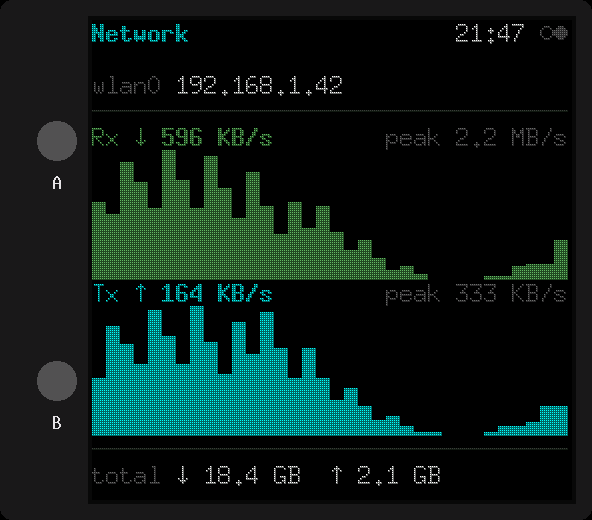
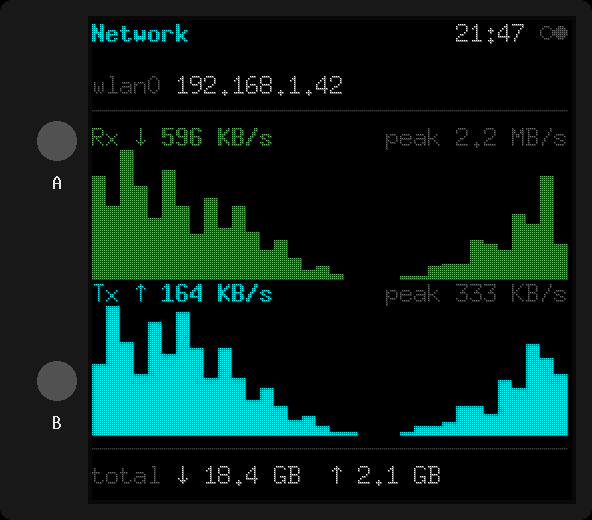
Overview: CPU history sparkline and RAM used in GB (#28)
Ideas from the Bear Byte monitor. The CPU sparkline sits under the CPU
gauge, scaled 0-100% and coloured like the gauge; the Mem row shows used
RAM in GiB after its bar.

Sparklines now draw the newest samples: ratatui's Sparkline keeps the
start of its data, so the Network graphs (40 samples, 34 columns) were
hiding the latest 6 seconds.

Claude-Session: https://claude.ai/code/session_01QArYA2tQ7xuw5EaptzcXds

diff --git a/src/ui.rs b/src/ui.rs
@@ -45,6 +45,7 @@ impl Page {
 pub struct AppState<'a> {
     pub snap: Snapshot,
     pub page: Page,
+    pub cpu_history: &'a VecDeque<u64>,
     pub rx_history: &'a VecDeque<u64>,
     pub tx_history: &'a VecDeque<u64>,
 }
@@ -61,7 +62,7 @@ const RULE: Color = Color::Rgb(60, 60, 60);
 
 /// First text row of the Overview info rows (IP, temp, uptime, load), each two
 /// rows tall. main.rs draws the icons there.
-pub const OVERVIEW_ICON_ROW: i32 = 8;
+pub const OVERVIEW_ICON_ROW: i32 = 10;
 
 /// Leading spaces on the Overview info rows, leaving room for the icons that
 /// main.rs draws over them.
@@ -107,11 +108,26 @@ fn dim(text: impl Into<String>) -> Span<'static> {
     Span::styled(text.into(), Style::default().fg(DIM))
 }
 
-fn render_gauge_row(frame: &mut Frame<'_>, area: Rect, label: &str, pct: u8, warn: u8, crit: u8) {
+/// Width of the label + percentage column on the left of each gauge row.
+const GAUGE_LABEL_W: u16 = 9;
+
+/// Gauge row with `suffix` (may be empty) shown after the bar.
+fn render_gauge_row(
+    frame: &mut Frame<'_>,
+    area: Rect,
+    label: &str,
+    pct: u8,
+    (warn, crit): (u8, u8),
+    suffix: &str,
+) {
     let color = traffic_color(pct, warn, crit);
     let cols = Layout::default()
         .direction(Direction::Horizontal)
-        .constraints([Constraint::Length(9), Constraint::Min(0)])
+        .constraints([
+            Constraint::Length(GAUGE_LABEL_W),
+            Constraint::Min(0),
+            Constraint::Length(suffix.chars().count() as u16),
+        ])
         .split(area);
     frame.render_widget(
         Paragraph::new(Line::from(vec![
@@ -127,6 +143,16 @@ fn render_gauge_row(frame: &mut Frame<'_>, area: Rect, label: &str, pct: u8, war
             .label(""),
         cols[1],
     );
+    frame.render_widget(Paragraph::new(dim(suffix)), cols[2]);
+}
+
+/// The newest `width` samples: `Sparkline` draws from the start of its data
+/// and drops whatever doesn't fit, which would hide the latest samples.
+fn latest(history: &VecDeque<u64>, width: u16) -> impl Iterator<Item = u64> + '_ {
+    history
+        .iter()
+        .copied()
+        .skip(history.len().saturating_sub(width as usize))
 }
 
 /// Header line: bold title on the left, then the clock and one dot per page.
@@ -182,32 +208,48 @@ fn fmt_bytes(bytes: u64) -> String {
 
 fn render_overview(frame: &mut Frame<'_>, state: &AppState<'_>) {
     let m = &state.snap;
-    // Rows 8-11 (`OVERVIEW_ICON_ROW`) are two text rows tall to fit the icons.
+    // Rows 10-17 (`OVERVIEW_ICON_ROW`) are two text rows tall to fit the icons.
     let rows = Layout::default()
         .direction(Direction::Vertical)
         .constraints([
             Constraint::Length(1), // [0] header
             Constraint::Length(1), // [1] gap
             Constraint::Length(1), // [2] CPU
-            Constraint::Length(1), // [3] gap
-            Constraint::Length(1), // [4] Mem
-            Constraint::Length(1), // [5] gap
-            Constraint::Length(1), // [6] Disk
-            Constraint::Length(1), // [7] rule
-            Constraint::Length(2), // [8] IP
-            Constraint::Length(2), // [9] Temp
-            Constraint::Length(2), // [10] Uptime
-            Constraint::Length(2), // [11] Load
+            Constraint::Length(2), // [3] CPU history
+            Constraint::Length(1), // [4] gap
+            Constraint::Length(1), // [5] Mem
+            Constraint::Length(1), // [6] gap
+            Constraint::Length(1), // [7] Disk
+            Constraint::Length(1), // [8] rule
+            Constraint::Length(2), // [9] IP
+            Constraint::Length(2), // [10] Temp
+            Constraint::Length(2), // [11] Uptime
+            Constraint::Length(2), // [12] Load
             Constraint::Min(0),
         ])
         .split(frame.area());
 
     render_header(frame, rows[0], &m.hostname, &m.time, state.page);
 
-    render_gauge_row(frame, rows[2], "CPU", m.cpu_pct, 50, 80);
-    render_gauge_row(frame, rows[4], "Mem", m.mem_pct, 60, 85);
-    render_gauge_row(frame, rows[6], "Dsk", m.disk_pct, 70, 90);
-    render_rule(frame, rows[7]);
+    const CPU_LEVELS: (u8, u8) = (50, 80);
+    render_gauge_row(frame, rows[2], "CPU", m.cpu_pct, CPU_LEVELS, "");
+    // Under the gauge bar, scaled 0-100% so its height matches the gauge.
+    let spark = Rect {
+        x: rows[3].x + GAUGE_LABEL_W,
+        width: rows[3].width.saturating_sub(GAUGE_LABEL_W),
+        ..rows[3]
+    };
+    frame.render_widget(
+        Sparkline::default()
+            .data(latest(state.cpu_history, spark.width))
+            .max(100)
+            .style(Style::default().fg(traffic_color(m.cpu_pct, CPU_LEVELS.0, CPU_LEVELS.1))),
+        spark,
+    );
+    let mem_gb = format!(" {:.1}G", m.mem_used as f64 / (1u64 << 30) as f64);
+    render_gauge_row(frame, rows[5], "Mem", m.mem_pct, (60, 85), &mem_gb);
+    render_gauge_row(frame, rows[7], "Dsk", m.disk_pct, (70, 90), "");
+    render_rule(frame, rows[8]);
 
     let label = |l: &str| dim(format!("{ICON_PAD}{l:<5}"));
 
@@ -216,7 +258,7 @@ fn render_overview(frame: &mut Frame<'_>, state: &AppState<'_>) {
             Span::raw(ICON_PAD),
             Span::styled(m.ip.clone(), bold(Color::White)),
         ])),
-        rows[8],
+        rows[9],
     );
 
     let temp = match m.temp {
@@ -225,7 +267,7 @@ fn render_overview(frame: &mut Frame<'_>, state: &AppState<'_>) {
     };
     frame.render_widget(
         Paragraph::new(Line::from(vec![label("temp"), temp])),
-        rows[9],
+        rows[10],
     );
 
     frame.render_widget(
@@ -233,7 +275,7 @@ fn render_overview(frame: &mut Frame<'_>, state: &AppState<'_>) {
             label("up"),
             Span::styled(m.uptime.clone(), Style::default().fg(Color::White)),
         ])),
-        rows[10],
+        rows[11],
     );
 
     let [one, five, fifteen] = m.load;
@@ -243,7 +285,7 @@ fn render_overview(frame: &mut Frame<'_>, state: &AppState<'_>) {
             Span::styled(format!("{one:.2}"), bold(load_color(one, m.cores))),
             dim(format!(" {five:.2} {fifteen:.2}")),
         ])),
-        rows[11],
+        rows[12],
     );
 }
 
@@ -306,7 +348,7 @@ fn render_network(frame: &mut Frame<'_>, state: &AppState<'_>) {
         frame.render_widget(Paragraph::new(dim(peak_text)), cols[1]);
         frame.render_widget(
             Sparkline::default()
-                .data(history.iter().copied())
+                .data(latest(history, spark_row.width))
                 .style(Style::default().fg(color)),
             spark_row,
         );

diff --git a/src/main.rs b/src/main.rs
@@ -39,7 +39,7 @@ const TICK: Duration = Duration::from_secs(1);
 /// missed and page changes show immediately.
 const POLL: Duration = Duration::from_millis(20);
 
-/// Number of network samples kept in history for the sparkline graphs.
+/// Number of samples kept in history for the sparkline graphs.
 const HISTORY_LEN: usize = 40;
 
 /// Draw embedded-icon MDI icons beside the Overview info rows
@@ -128,6 +128,7 @@ impl Source {
 struct App {
     source: Source,
     page: ui::Page,
+    cpu_history: VecDeque<u64>,
     rx_history: VecDeque<u64>,
     tx_history: VecDeque<u64>,
 }
@@ -137,12 +138,13 @@ impl App {
         Self {
             source: Source::Live(Box::new(metrics::Metrics::new())),
             page: ui::Page::default(),
+            cpu_history: VecDeque::with_capacity(HISTORY_LEN),
             rx_history: VecDeque::with_capacity(HISTORY_LEN),
             tx_history: VecDeque::with_capacity(HISTORY_LEN),
         }
     }
 
-    /// An `App` showing fixed sample data, with the network history already
+    /// An `App` showing fixed sample data, with the histories already
     /// full so the first frame looks like a long-running device.
     #[cfg(feature = "sim")]
     fn demo() -> Self {
@@ -152,6 +154,7 @@ impl App {
             let (rx, tx) = metrics::Demo::rates(HISTORY_LEN + i);
             push_bounded(&mut app.rx_history, rx);
             push_bounded(&mut app.tx_history, tx);
+            push_bounded(&mut app.cpu_history, metrics::Demo::cpu(i));
         }
         app
     }
@@ -165,12 +168,14 @@ impl App {
         D: DrawTarget<Color = Rgb565> + 'static,
     {
         let m = self.source.sample();
+        push_bounded(&mut self.cpu_history, m.cpu_pct.into());
         push_bounded(&mut self.rx_history, m.rx_bps);
         push_bounded(&mut self.tx_history, m.tx_bps);
 
         let state = ui::AppState {
             snap: m,
             page: self.page,
+            cpu_history: &self.cpu_history,
             rx_history: &self.rx_history,
             tx_history: &self.tx_history,
         };

diff --git a/src/metrics.rs b/src/metrics.rs
@@ -8,6 +8,8 @@ pub struct Snapshot {
     pub hostname: String,
     pub cpu_pct: u8,
     pub mem_pct: u8,
+    /// Used RAM in bytes.
+    pub mem_used: u64,
     pub disk_pct: u8,
     pub temp: Option<f32>,
     pub uptime: String,
@@ -88,6 +90,7 @@ impl Metrics {
             hostname: System::host_name().unwrap_or_else(|| "?".into()),
             cpu_pct: self.sys.global_cpu_usage().min(100.0) as u8,
             mem_pct: percent(self.sys.used_memory(), self.sys.total_memory()),
+            mem_used: self.sys.used_memory(),
             disk_pct: self.disks.iter().find(|d| is_root(d)).map_or(0, |d| {
                 let total = d.total_space();
                 percent(total.saturating_sub(d.available_space()), total)
@@ -209,6 +212,11 @@ impl Demo {
         (rx as u64, tx as u64)
     }
 
+    /// CPU % for tick `i`, wandering around the fixed `cpu_pct` of 37.
+    pub fn cpu(i: usize) -> u64 {
+        (37.0 + 25.0 * (i as f64 / 4.0).sin() * (i as f64 / 11.0).cos()) as u64
+    }
+
     pub fn sample(&mut self) -> Snapshot {
         let (rx_bps, tx_bps) = Self::rates(self.tick);
         self.tick += 1;
@@ -218,6 +226,7 @@ impl Demo {
             hostname: "pipulse".into(),
             cpu_pct: 37,
             mem_pct: 61,
+            mem_used: 2_620_000_000,
             disk_pct: 28,
             temp: Some(52.3),
             uptime: "2d 4h 12m".into(),
